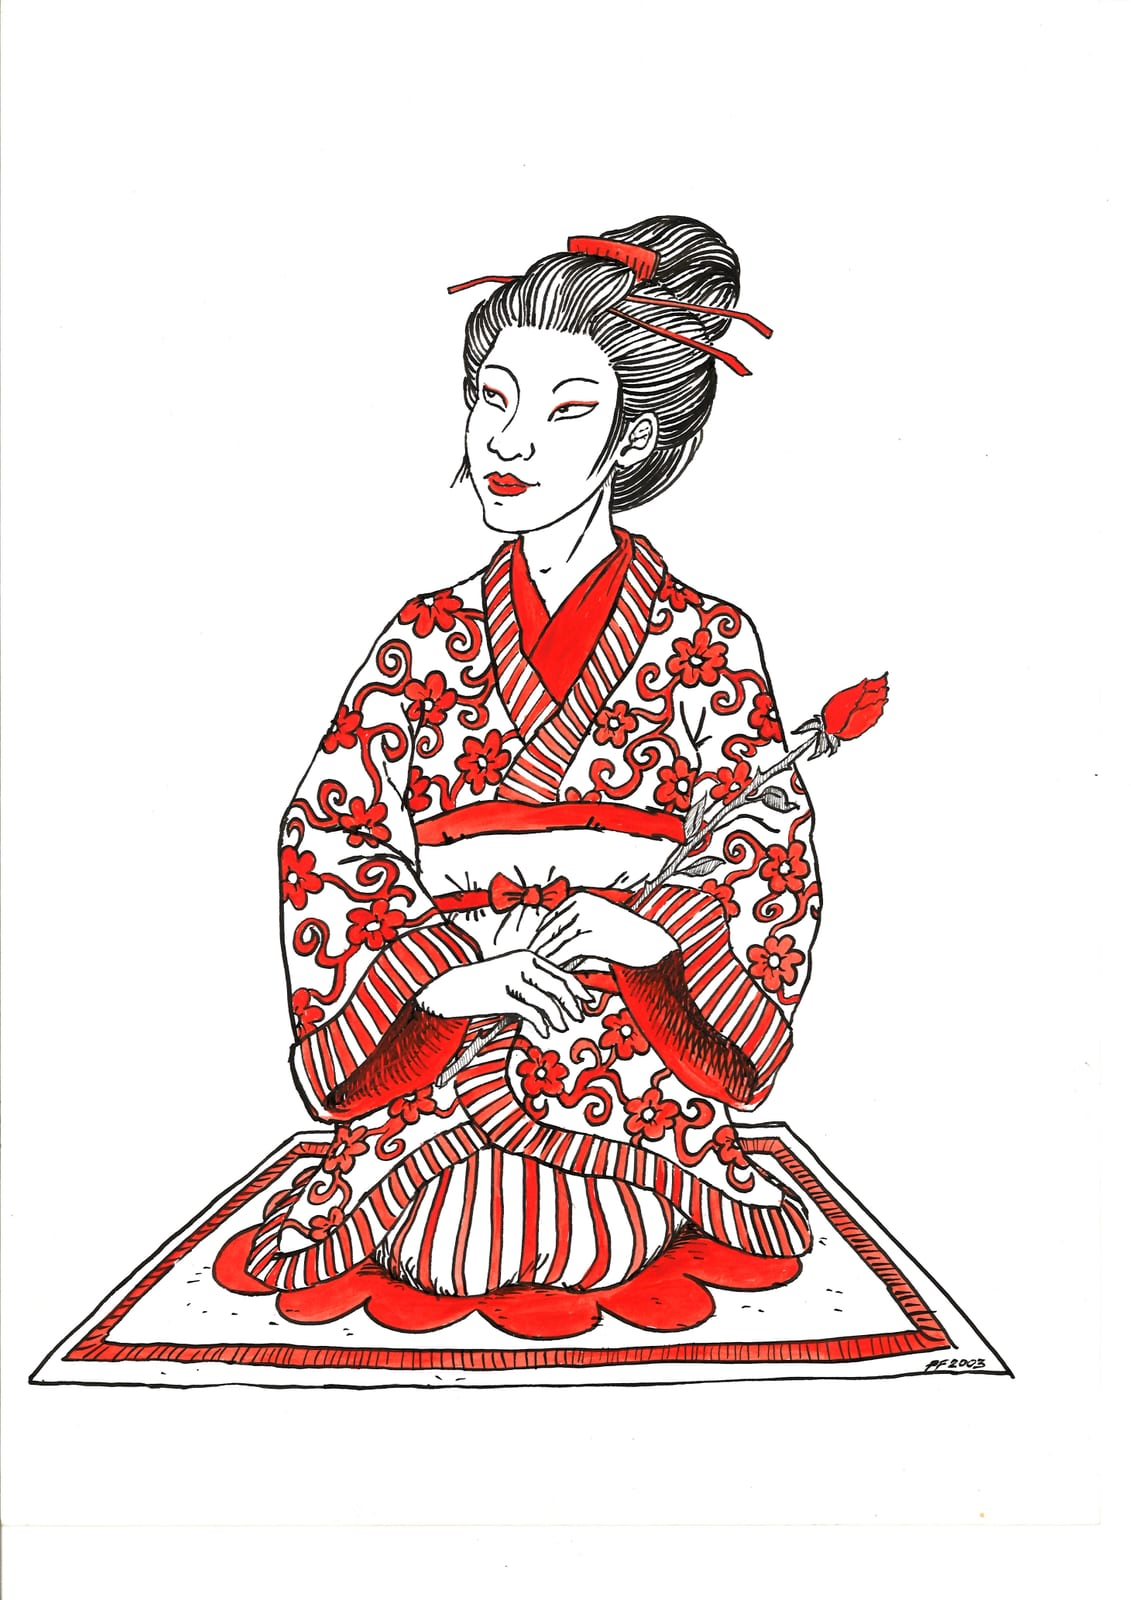
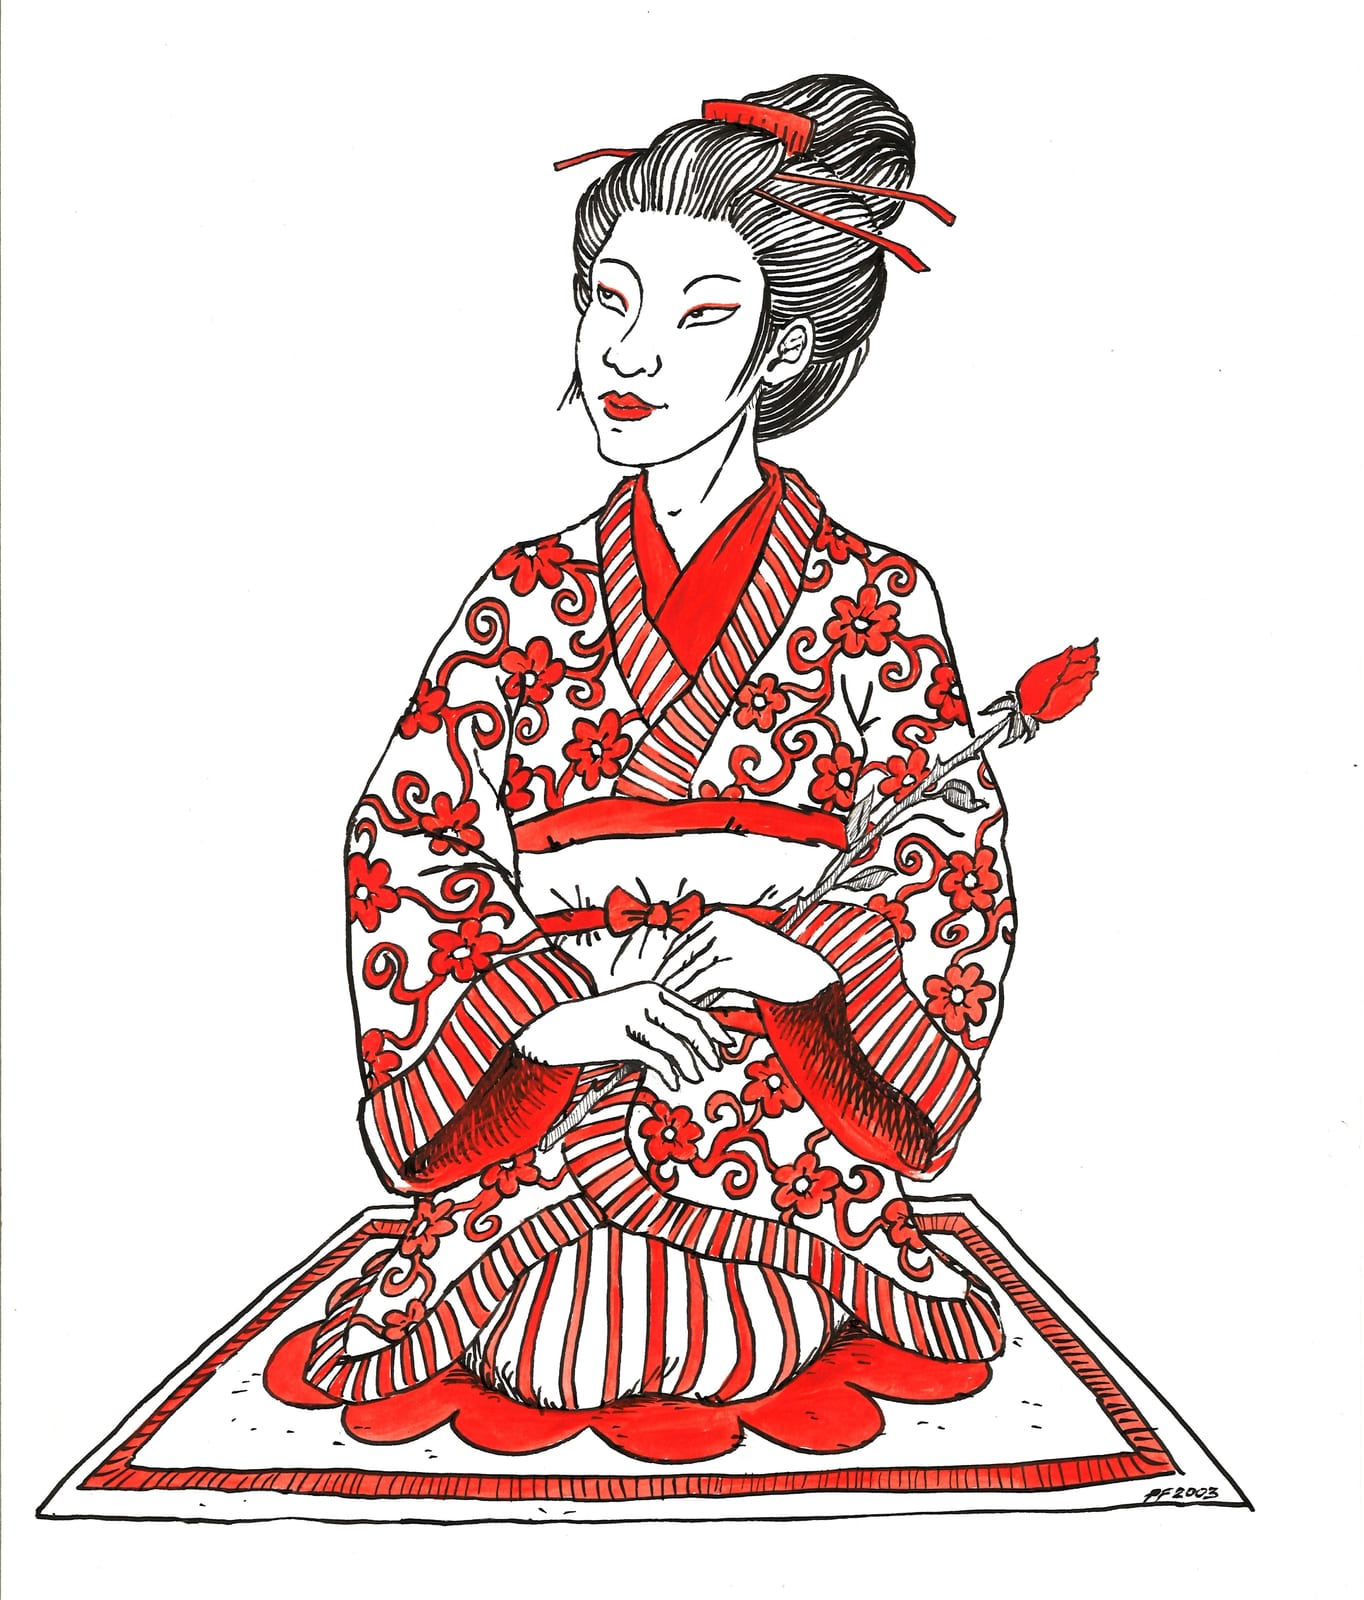
Portraits fill the frame; video gradient actually shows; softer close button
- Kresba portraits: auto-crop each scan to the drawing's bounding box
  (the scans had wide white margins the trim missed), so the lightbox
  shows the drawing large, not floating in white.
- Videa tiles: the navy caption gradient was being painted under the
  thumbnail <img> — give it z-index above the image (caption above that)
  and make it heavier at the bottom. Captions are legible now.
- Course popup close button: paper-alt at 90% instead of stark white, to
  match the chapter background.

Claude-Session: https://claude.ai/code/session_01D2rZht8wi7sHT78WDBcqmR

Changed region(s): [[0.0309, 0.0312, 0.9284, 0.9688]]

diff --git a/scrollcraft/builds/dojo-na-ceste/index.html b/scrollcraft/builds/dojo-na-ceste/index.html
@@ -700,8 +700,8 @@
   /* Solid, always-legible: this close button sits over the photo, not the
      paper card like the other two, so the faint shared background left it
      invisible against dark parts of the image (worst on mobile). */
-  .course-popup__close { position: absolute; top: 1.1rem; right: 1.1rem; z-index: 2; background: rgba(255,255,255,0.94); box-shadow: 0 2px 10px rgba(0,0,0,0.3); }
-  .course-popup__close:hover, .course-popup__close:focus-visible { background: #fff; }
+  .course-popup__close { position: absolute; top: 1.1rem; right: 1.1rem; z-index: 2; background: rgba(239, 232, 217, 0.9); box-shadow: 0 2px 12px rgba(16,24,40,0.28); }
+  .course-popup__close:hover, .course-popup__close:focus-visible { background: var(--paper-alt); }
   .cta-row { display: flex; gap: var(--sp-3); flex-wrap: wrap; margin-top: var(--sp-1); }
   .btn {
     display: inline-block; font-size: var(--text-caption); font-weight: 600; padding: 0.75em 1.4em;
@@ -807,17 +807,19 @@
     aspect-ratio: 4 / 3; background: var(--navy-deep); transition: transform 200ms var(--ease);
   }
   .videa__tile:hover, .videa__tile:focus-visible { transform: translateY(-3px); }
-  .videa__thumb { position: absolute; inset: 0; width: 100%; height: 100%; object-fit: cover; transition: transform 300ms var(--ease); }
+  .videa__thumb { position: absolute; inset: 0; width: 100%; height: 100%; object-fit: cover; z-index: 0; transition: transform 300ms var(--ease); }
   .videa__tile:hover .videa__thumb, .videa__tile:focus-visible .videa__thumb { transform: scale(1.05); }
-  .videa__tile::before { content: ""; position: absolute; inset: 0; background: linear-gradient(to top, rgba(16,24,40,0.9) 0%, rgba(16,24,40,0.14) 52%, rgba(16,24,40,0.04) 100%); }
+  /* z-index: the <img> is a real child painted after this pseudo, so the
+     navy gradient has to sit explicitly above it (caption above both). */
+  .videa__tile::before { content: ""; position: absolute; inset: 0; z-index: 1; background: linear-gradient(to top, rgba(16,24,40,0.97) 0%, rgba(16,24,40,0.78) 30%, rgba(16,24,40,0.32) 60%, rgba(16,24,40,0) 100%); }
   .videa__play {
-    position: absolute; top: 50%; left: 50%; transform: translate(-50%, -50%); z-index: 1;
+    position: absolute; top: 50%; left: 50%; transform: translate(-50%, -50%); z-index: 2;
     width: 2.6rem; height: 2.6rem; border-radius: 50%; background: rgba(255,255,255,0.92); color: var(--navy-deep);
     display: flex; align-items: center; justify-content: center; transition: transform 200ms var(--ease);
   }
   .videa__play svg { width: 1.05rem; height: 1.05rem; margin-left: 2px; }
   .videa__tile:hover .videa__play, .videa__tile:focus-visible .videa__play { transform: translate(-50%, -50%) scale(1.09); }
-  .videa__cap { position: absolute; left: 0.85rem; right: 0.85rem; bottom: 0.7rem; z-index: 1; }
+  .videa__cap { position: absolute; left: 0.85rem; right: 0.85rem; bottom: 0.7rem; z-index: 2; }
   .videa__tile b { display: block; font-weight: 600; font-size: var(--text-caption); color: #fff; }
   .videa__cap span { display: block; font-size: var(--text-micro); color: rgba(245,235,221,0.82); }
 
